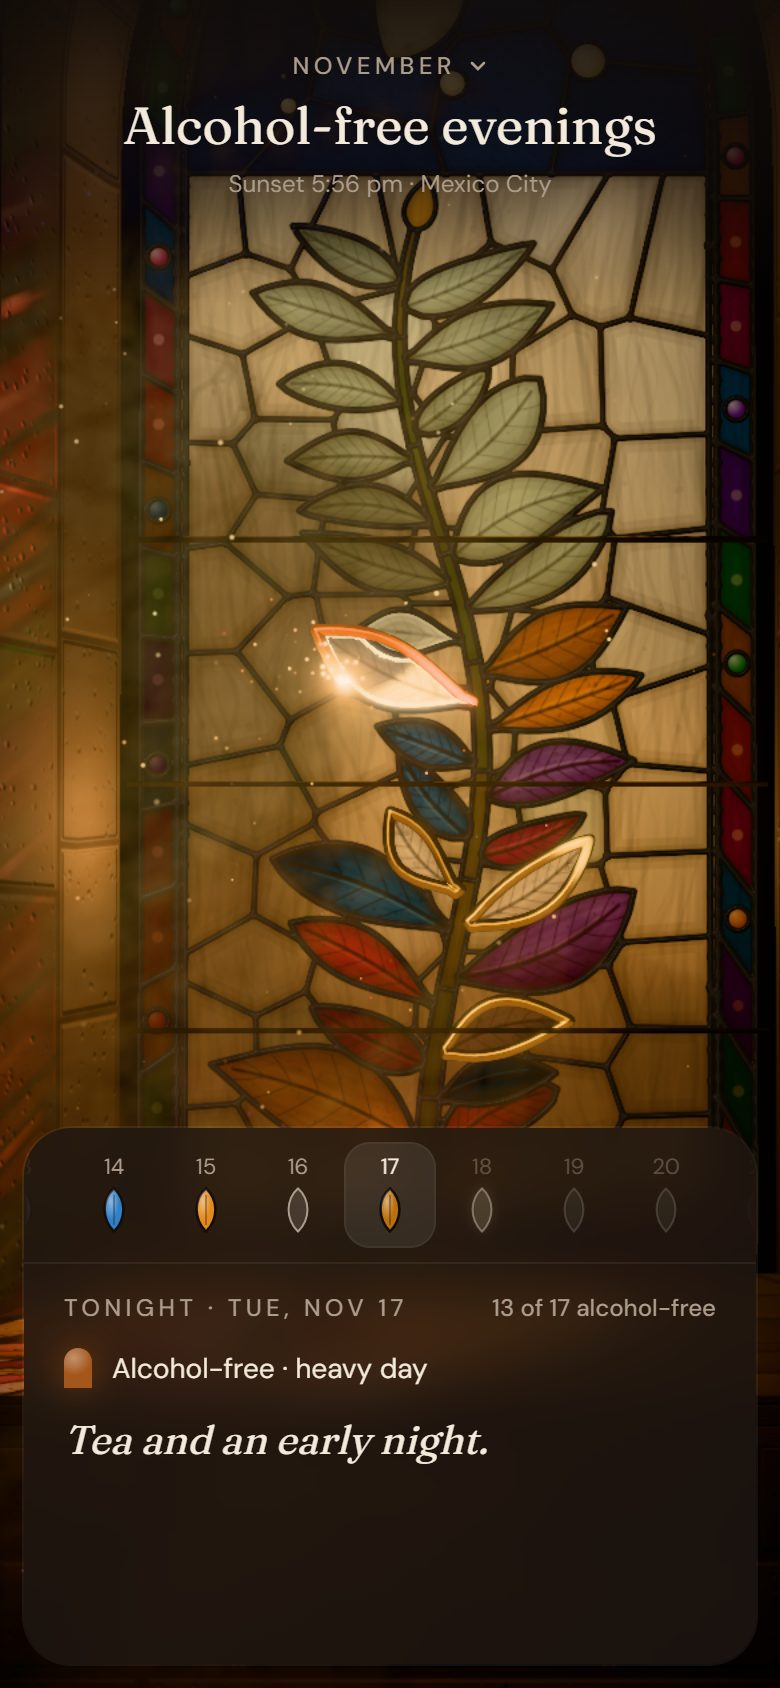
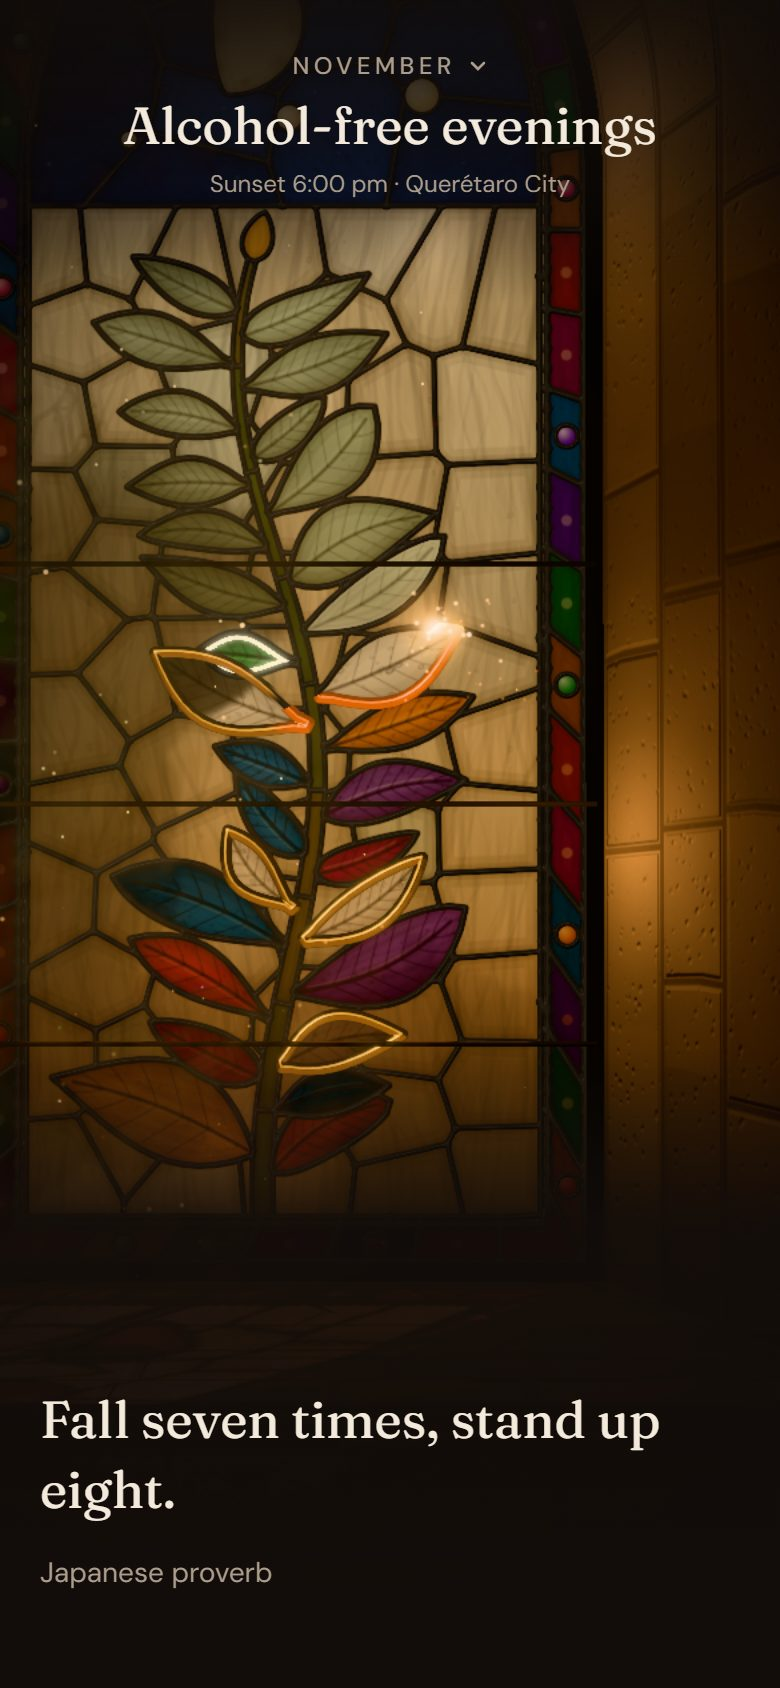
Catching up weighs both answers the same, and the README says what comes next
- 'All alcohol-free' is gone: it favored one answer and overwrote a night already marked with a
  drink. An 'Every night' row with the same two buttons, aligned with each night's, fills them all
  either way; each can still be changed after. With a single night it doesn't show.
- Not built, written down: next, the support plan and 'Having a craving?' (urge surfing, Marlatt's
  technique at the core of mindfulness-based relapse prevention; checked against Bowen et al. 2014),
  proposed for the live session; later, six more.
- The mend screenshot retaken from the production build: the second leaf soldered, a quote under it.

diff --git a/components/Ritual.tsx b/components/Ritual.tsx
@@ -2,7 +2,7 @@
 
 // Tonight's check-in and wind-down, over the dimmed window. It asks as little as it can:
 //   before tonight: if some of the last week's nights got no check-in, fill in the ones you
-//      remember (each with the same two answers, or all alcohol-free in one tap). Skippable;
+//      remember (each with the same two answers, or every night at once, either way). Skippable;
 //   0. was today alcohol-free? Yes, or "I had a drink";
 //   1. three slow breaths, paced on screen. They start by themselves, and "Skip" is always there:
 //      nothing to tick off, the leaf comes from the answer, not from chores;
@@ -48,11 +48,11 @@ export default function Ritual({ goal, onClose, onLog, onPhase, onDone }: Props)
     setHeld(on);
     onPhase(on ? "held" : "ask");
   };
-  /** Logs the nights answered (or all of them, alcohol-free) and goes on to tonight. */
-  const fill = (all: boolean) => {
+  /** Logs the nights answered (the rest stay as no check-in) and goes on to tonight. */
+  const fill = () => {
     const nights = forgotten
-      .filter((date) => all || date in answers)
-      .map((date): Night => (!all && answers[date] ? { date, done: false, drank: true } : { date, done: true, weight: 2 }));
+      .filter((date) => date in answers)
+      .map((date): Night => (answers[date] ? { date, done: false, drank: true } : { date, done: true, weight: 2 }));
     if (nights.length) onLog(nights);
     setCatchUp(false);
   };
@@ -63,6 +63,23 @@ export default function Ritual({ goal, onClose, onLog, onPhase, onDone }: Props)
       else next[date] = drank;
       return next;
     });
+  // "Every night": the same two answers, for all of them at once (each can still be changed after).
+  const everyNight = (drank: boolean) => forgotten.every((date) => answers[date] === drank);
+  const answerAll = (drank: boolean) => setAnswers(everyNight(drank) ? {} : Object.fromEntries(forgotten.map((date) => [date, drank])));
+  const pills = (pressed: (drank: boolean) => boolean, pick: (drank: boolean) => void) => (
+    <span className="flex gap-1.5">
+      {[false, true].map((drank) => (
+        <button
+          key={String(drank)}
+          onClick={() => pick(drank)}
+          aria-pressed={pressed(drank)}
+          className={`rounded-full px-3.5 py-2 text-sm ring-1 transition-colors duration-200 ${pressed(drank) ? "bg-ink text-night ring-ink" : "text-mist ring-white/12"}`}
+        >
+          {drank ? "A drink" : "Alcohol-free"}
+        </button>
+      ))}
+    </span>
+  );
   const back = () => {
     if (catchUp) onClose();
     else if (held) hold(false);
@@ -129,31 +146,24 @@ export default function Ritual({ goal, onClose, onLog, onPhase, onDone }: Props)
           <section key="catch-up" className="flex flex-1 flex-col justify-end animate-rise">
             <h2 className="font-display text-[28px] leading-tight">Before tonight</h2>
             <p className="mt-2 text-sm text-mist">These nights didn&apos;t get a check-in. Fill in the ones you remember.</p>
-            <ul className="mt-6 space-y-2">
+            {forgotten.length > 1 && (
+              <div className="mt-6 flex items-center justify-between gap-3 py-1 pr-2.5 pl-4">
+                <span className="text-sm text-mist">Every night</span>
+                {pills(everyNight, answerAll)}
+              </div>
+            )}
+            <ul className={`space-y-2 ${forgotten.length > 1 ? "mt-2" : "mt-6"}`}>
               {forgotten.map((date) => (
                 <li key={date} className="flex items-center justify-between gap-3 rounded-2xl bg-white/4 py-2.5 pr-2.5 pl-4 ring-1 ring-white/8">
                   <span className="text-sm text-ink">{shortDate(date)}</span>
-                  <span className="flex gap-1.5">
-                    {[false, true].map((drank) => (
-                      <button
-                        key={String(drank)}
-                        onClick={() => answer(date, drank)}
-                        aria-pressed={answers[date] === drank}
-                        className={`rounded-full px-3.5 py-2 text-sm ring-1 transition-colors duration-200 ${
-                          answers[date] === drank ? "bg-ink text-night ring-ink" : "text-mist ring-white/12"
-                        }`}
-                      >
-                        {drank ? "A drink" : "Alcohol-free"}
-                      </button>
-                    ))}
-                  </span>
+                  {pills(
+                    (drank) => answers[date] === drank,
+                    (drank) => answer(date, drank),
+                  )}
                 </li>
               ))}
             </ul>
-            <button onClick={() => fill(true)} className="btn-quiet mt-5">
-              All alcohol-free
-            </button>
-            <button onClick={() => fill(false)} className="btn-primary mt-2.5">
+            <button onClick={fill} className="btn-primary mt-5">
               {Object.keys(answers).length ? "Continue" : "Skip"}
             </button>
           </section>

diff --git a/README.md b/README.md
@@ -113,7 +113,7 @@ This month's window happens to be a vine, but the plant isn't the mechanism. The
 </p>
 
 1. **Tonight.** The month's window, tonight's leaf breathing in it. Below, the month as a row you can tap, each night the same piece as in the window (a leaf this month, a petal in the rose, a ray in the sunburst), and a card with tonight's wind-down.
-2. **Before tonight, if needed.** Nights from the last week with no check-in come first: "Fill in the ones you remember", with the same two answers for each, or "All alcohol-free" in one tap. Blanks stay as no check-in, and the step can be skipped. A single night can also be filled in later, from its card.
+2. **Before tonight, if needed.** Nights from the last week with no check-in come first: "Fill in the ones you remember", with the same two answers for each, and an "Every night" row with those same two answers to fill them all at once, either way (each can still be changed after). Blanks stay as no check-in, and the step can be skipped. A single night can also be filled in later, from its card.
 3. **Was today alcohol-free?** Two equal answers, "Yes" and "I had a drink", so the honest one is never the harder one to tap.
 4. **After "I had a drink",** the dimming lifts: the whole month, every leaf before tonight still in color, and "One night doesn't undo the others." Then the breaths, as on any night.
 5. **Three slow breaths,** paced on screen. They start by themselves, and "Skip" is always there.
@@ -186,18 +186,19 @@ Measured on the production build, as a mid-range phone (390×844 at 3×, the CPU
 
 ## Not built, written down
 
-- The other crafts, built for real (they're mocks for now).
-- The goal you set for the month, or your favorite color, picks the month's colors.
-- The full year on the wall, and a print of a finished window.
-- Patterns from the heavy days ("heavy days cluster on Fridays"), as a gentle way to spot triggers.
-- Drinking less, not only none: a nightly limit you choose (two drinks, say), with nights within it set in color.
-- On the night someone comes back after a drink, an optional "what got in the way?", a light version of how CBT looks at a lapse.
-- **Support for when it's more than a slip,** the first thing I'd build next. The rule: never scan what people write, always offer a way to a person.
-  - At sign-up, a short screening (AUDIT-C or similar) for heavy daily drinking, where stopping all at once can be medically dangerous. It points to a doctor, or to drinking less before stopping.
-  - On the night of a drink, a quiet "Need someone tonight?" under "One night doesn't undo the others", always in the same place, never a pop-up.
-  - When the pattern says so (several nights with a drink in a row, heavy days piling up, check-ins that stop after a drink), a gentle question the next evening, with "Not now" as easy to tap as yes.
-  - One tap to a person you chose ahead of time, to a coach if the service has one, or to the helplines for your country.
-  - No alerts to anyone without consent, the diary stays on the device, and no chatbot playing therapist. The copy and the thresholds would be reviewed by a clinician, and judged on whether the people who open it come back.
+**Next, in this order**
+
+1. **Support for when it's more than a slip.** Safety comes first. At sign-up, a short screening (AUDIT-C or similar) for heavy daily drinking, where stopping all at once can be medically dangerous: it points to a doctor, or to drinking less before stopping. On the night of a drink, a quiet "Need someone tonight?" under "One night doesn't undo the others", always in the same place, never a pop-up. When the pattern says so (several nights with a drink in a row, heavy days piling up, check-ins that stop after a drink), a gentle question the next evening, with "Not now" as easy to tap as yes. One tap to a person you chose ahead of time, to a coach if the service has one, or to the helplines for your country. The rule: never scan what people write, always offer a way to a person. No alerts to anyone without consent, the diary stays on the device, and no chatbot playing therapist. The copy and the thresholds would be reviewed by a clinician.
+2. **"Having a craving?"**, my proposal for the live session. The drink happens at 7 pm, not at the 11 pm check-in, so this is a quiet line on the home card, never a notification. It opens urge surfing, Marlatt's own technique and the core of mindfulness-based relapse prevention (Bowen, Chawla and Marlatt; in a 2014 trial it cut drug use and heavy drinking at 12 months more than standard relapse prevention or usual care): the craving watched as a wave that rises and passes, with the breaths and the month's window as the anchor, then "Did it pass?". "Still here" offers more time, or "Need someone tonight?". It closes the circle on the same model: before the drink (the craving), the slip (the mend), and the confidence (the nightly note). It reuses the breaths, the window and the camera.
+
+**Later**
+
+3. **Drinking less, not only none:** a nightly limit you choose (two drinks, say), with nights within it set in color.
+4. **"What got in the way?"** as an option on the night someone comes back after a drink: a light version of how CBT looks at a lapse.
+5. **Patterns,** from heavy days and from cravings ("heavy days cluster on Fridays", "the cravings come at 7 pm"), as a gentle way to spot triggers.
+6. **The Plus crafts built for real** (mosaic, tapestry, vase); they're mocks for now.
+7. **The month's colors** picked from the goal you set, or from your favorite color.
+8. **The full year on the wall,** and a print of a finished window.
 
 ## Tools, AI included
 
